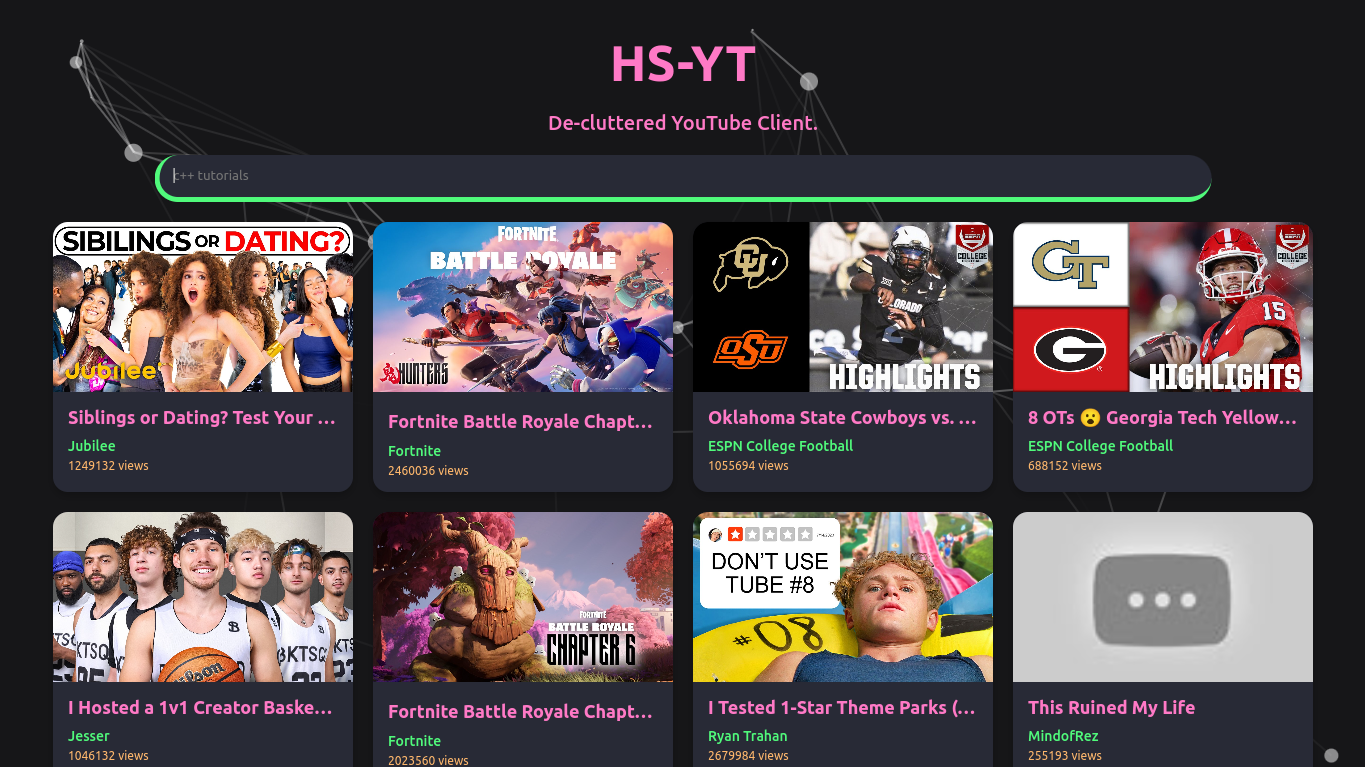
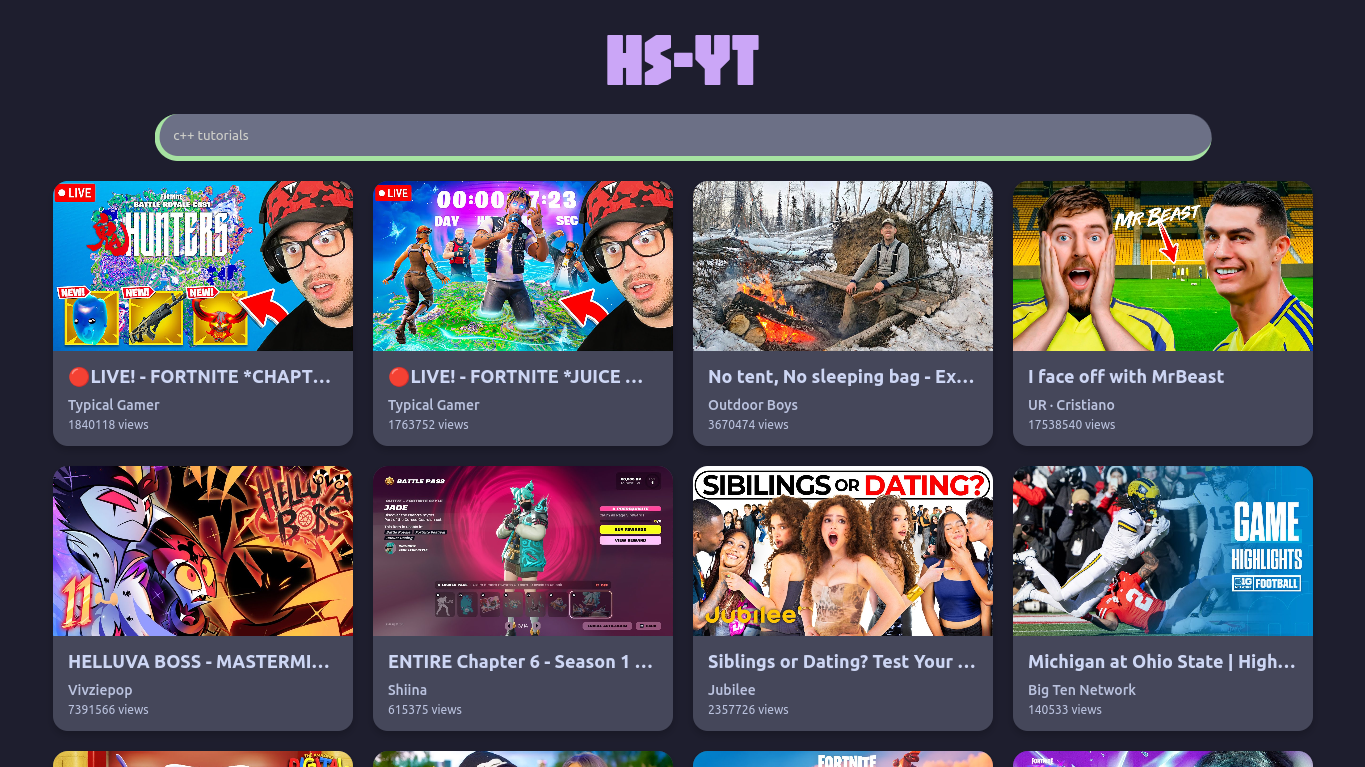
failsafe, goodbye dracula, hello catppuccin

diff --git a/public/style.css b/public/style.css
@@ -1,8 +1,17 @@
 @import url('https://fonts.googleapis.com/css2?family=Ubuntu:ital,wght@0,300;0,400;0,500;0,700;1,300;1,400;1,500;1,700&display=swap');
+@import url('https://fonts.googleapis.com/css2?family=Jaro:opsz@6..72&display=swap');
+
+:root {
+    --bg: #1e1e2e;
+    --surface1: #45475a;
+    --text: #cdd6f4;
+    --subtext: #bac2de;
+    --overlay: #6c7086;
+}
 
 body {
-    background-color: #161618;
-    color: #FF79C6;
+    background-color: var(--bg);
+    color: #cba6f7;
     margin: 0;
     padding: 0;
 
@@ -14,7 +23,6 @@ body {
 
 #particles-js canvas {
     display: block;
-    vertical-align: bottom;
     -webkit-transform: scale(1);
     -ms-transform: scale(1);
     transform: scale(1);
@@ -33,13 +41,21 @@ body {
 }
 
 .maintitle {
-    font-family: "Ubuntu", serif;
-    font-weight: 700;
+    font-family: "Jaro", sans-serif;
+    font-optical-sizing: auto;
+    font-weight: 400;
     font-style: normal;
-
+    
     text-align: center;
-    font-size: 50px; 
-    margin-bottom: 0;
+    font-size: 75px;
+    
+    margin: 10px;
+}
+
+.loadr {
+    max-width: 15vw;
+    position: relative;
+    text-align: center;
 }
 
 .maindesc {
@@ -63,8 +79,8 @@ body {
     width: 75%;
     padding: 1%;
 
-    background-color: #282A36;
-    border-color: #50FA7B;
+    background-color: var(--overlay);
+    border-color: #a6e3a1;
     border-width: 0px;
     border-bottom-width: 5px;
     border-left-width: 5px;
@@ -76,9 +92,13 @@ body {
     transition: border-color 0.3s ease;
 }
 
+::placeholder {
+    color: #d0d0ca;
+    opacity: 1; /* Firefox */
+}
 
 .search-input:hover {
-    border-color: #FFB86C;
+    border-color: #f9e2af;
 }
 
 /* removes the default focus outline - I don't like it */
@@ -97,7 +117,7 @@ body {
 }
 
 .video-cont {
-    background-color: #282A36;
+    background-color: var(--surface1);
     border-radius: 15px;
     overflow: hidden;
     width: 300px;
@@ -120,14 +140,14 @@ body {
 .video-info {
     padding: 15px;
     font-family: "Ubuntu", serif;
-    color: #F8F8F2;
+    color: var(--subtext);
 }
 
 .video-title {
     font-size: 18px;
     font-weight: 700;
     margin: 0 0 10px 0;
-    color: #FF79C6;
+    color: var(--text);
     text-decoration: none;
     overflow: hidden;
     text-overflow: ellipsis;
@@ -137,14 +157,14 @@ body {
 .video-author {
     font-size: 14px;
     font-weight: 500;
-    color: #50FA7B;
+    color: var(--subtext);
     margin: 0 0 5px 0;
 }
 
 .video-views {
     font-size: 12px;
     font-weight: 400;
-    color: #FFB86C;
+    color: var(--subtext);
     margin: 0;
 }
 
@@ -184,7 +204,7 @@ hr {
 .dataContainer {
     position: relative;
     max-width: 64vw;
-    color: #F8F8F2;
+    color: var(--text);
     text-align: left;
 }
 

diff --git a/public/index.html b/public/index.html
@@ -10,12 +10,11 @@
     <script src="https://cdn.jsdelivr.net/npm/particles.js@2.0.0/particles.min.js"></script>
 
 <h1 class="maintitle">HS-YT</h1>
-<p class="maindesc">De-cluttered YouTube Client.</p>
     <div class="main-search">
         <input class="search-input" id="search-input" placeholder="c++ tutorials">
     </div>
     <div id="videos-container">
-        <h3>We're fetching the trendiest videos, hang tight!</h3>
+        <svg class="loadr" xmlns="http://www.w3.org/2000/svg" viewBox="0 0 200 200"><circle fill="#cba6f7" stroke="#cba6f7" stroke-width="15" r="15" cx="40" cy="65"><animate attributeName="cy" calcMode="spline" dur="2" values="65;135;65;" keySplines=".5 0 .5 1;.5 0 .5 1" repeatCount="indefinite" begin="-.4"></animate></circle><circle fill="#cba6f7" stroke="#cba6f7" stroke-width="15" r="15" cx="100" cy="65"><animate attributeName="cy" calcMode="spline" dur="2" values="65;135;65;" keySplines=".5 0 .5 1;.5 0 .5 1" repeatCount="indefinite" begin="-.2"></animate></circle><circle fill="#cba6f7" stroke="#cba6f7" stroke-width="15" r="15" cx="160" cy="65"><animate attributeName="cy" calcMode="spline" dur="2" values="65;135;65;" keySplines=".5 0 .5 1;.5 0 .5 1" repeatCount="indefinite" begin="0"></animate></circle></svg>
     </div>
 </body>
 <script src="main.js"></script>

diff --git a/main.js b/main.js
@@ -49,6 +49,7 @@ app.get("/feed", async (req, res) => {
 });
 
 app.get("/videoData", async (req, res) => {
+    try {
     const video = await youtube.getVideo(req.query.id);
 
     let nextArr = []
@@ -70,6 +71,18 @@ app.get("/videoData", async (req, res) => {
         commentData: null,
         relatedArray: nextArr
     })
+} catch {
+    res.json({
+        likes: "Error",
+        description: "Error",
+        views: "Error",
+        uploadDate: "Error",
+        title: "Error",
+        subs: "Error",
+        commentData: "Error",
+        relatedArray: "Error"
+    })
+}
 })
 
 app.get("/videoStream", async (req, res) => {
@@ -78,6 +91,7 @@ app.get("/videoStream", async (req, res) => {
 })
 
 app.get("/search", async (req, res) => {
+    try {
     let term = decodeURIComponent(req.query.term)
     const videos = await youtube.search(term, {
         type: "video",
@@ -94,6 +108,9 @@ app.get("/search", async (req, res) => {
     }
 
     res.send(itemsArr)
+} catch {
+    res.send([])
+}
 })
 
 app.get("/view", (req, res) => {

diff --git a/public/main.js b/public/main.js
@@ -1,6 +1,3 @@
-particlesJS.load('particles-js', 'particles.json', function() {
-    console.log('callback - particles.js config loaded');
-  });
 
 (async function() { // wrap everything within async; sorry for not using type="module" :3
     console.log("Hi, developer!");

diff --git a/README.md b/README.md
@@ -28,6 +28,7 @@ This is a compromise of both: an alternative client with much less lag, while ke
 - Livestreaming works beautifully
 - Much less on-load lag than the main YouTube website
 - People hosting don't need to worry about data usage since YouTube embedding is used.
+- catppuccin :D
 
 <hr>
 
